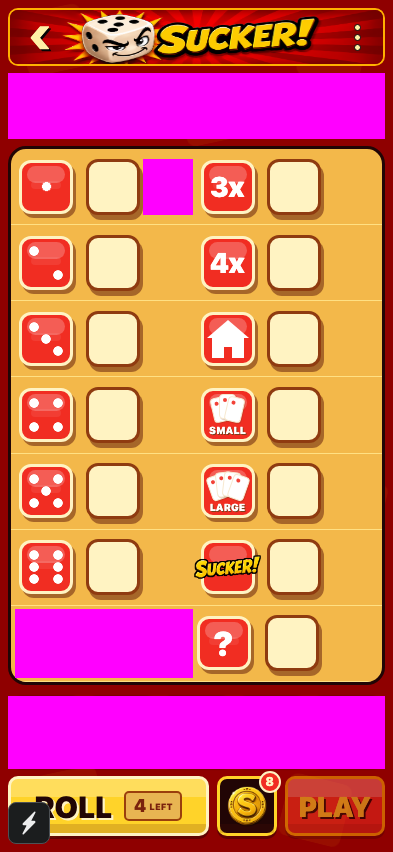
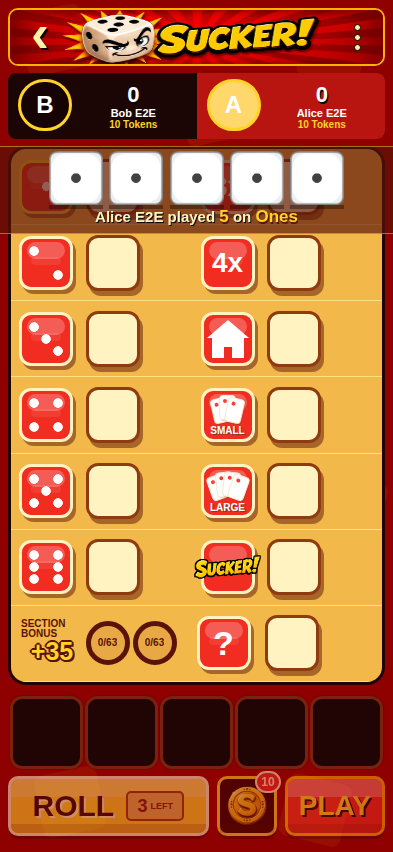
Tighten response window web snapshot

diff --git a/e2e/multiplayer-web.spec.ts b/e2e/multiplayer-web.spec.ts
@@ -85,14 +85,7 @@ test('two players can create an invite and play turns through the web UI', async
   await expect.poll(() => loadGameStatus(gameId)).toBe('response_window');
 
   await openGameFromNotification(bobPage, gameId);
-  await expect(bobPage.getByTestId('game-screen')).toHaveScreenshot('response-window.png', {
-    mask: [
-      bobPage.getByTestId('dice-tray'),
-      bobPage.getByTestId('opponent-score-box-ones'),
-      bobPage.getByTestId('player-strip'),
-      bobPage.getByTestId('section-bonus-panel'),
-    ],
-  });
+  await expect(bobPage.getByTestId('game-screen')).toHaveScreenshot('response-window.png');
   await expect(bobPage.getByTestId('roll-button')).toBeEnabled();
   await bobPage.getByTestId('roll-button').click();
   await expect(bobPage.getByTestId('home-score-box-twos')).toBeVisible();